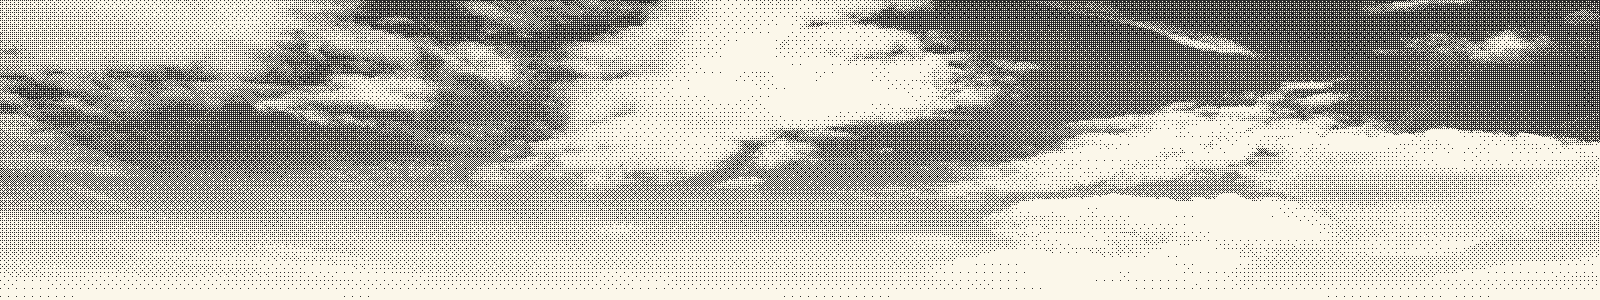
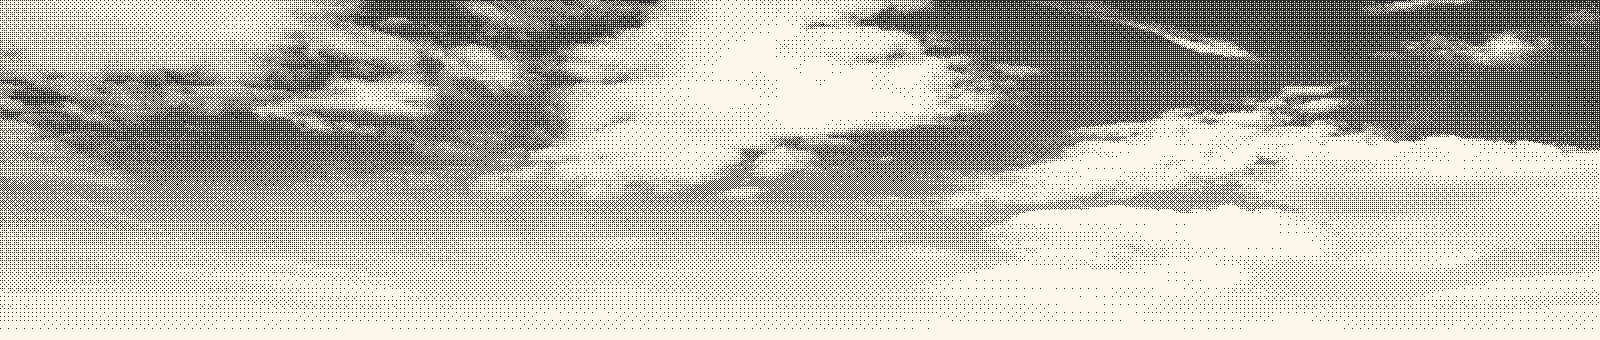
Draft: more breathing room; clouds and grass overlap the content
- Title moves up into the clouds, which now fade out behind the title
  and subtitle; grass rises behind the lower edge of the project cards.
- Larger gaps between title, Projects and the contact/footer pair.
- Title, subtitle and Projects heading get the cream halo so they stay
  legible over the dots.

Not for merge until approved.

Claude-Session: https://claude.ai/code/session_01ADSfjnotvJBVm7aaFjY4uq

diff --git a/assets/css/style.css b/assets/css/style.css
@@ -180,8 +180,8 @@ a {
   flex-direction: column;
   align-items: center;
   text-align: center;
-  --hero-top: calc(var(--u) * 440);
-  --title-reach: calc(var(--u) * 105); /* how far the cloud dither reaches into the title */
+  --hero-top: calc(var(--u) * 290);
+  --title-reach: calc(var(--u) * 330); /* clouds fade out behind the title and subtitle */
   padding: var(--hero-top) 24px 0;
 }
 
@@ -204,7 +204,7 @@ a {
 .dither--top {
   top: 0;
   height: calc(var(--hero-top) + var(--title-reach));
-  background: url("../img/dither-top.png") center bottom / 3200px 600px no-repeat;
+  background: url("../img/dither-top.png") center bottom / 3200px 680px no-repeat;
 }
 
 /* Bottom: grass builds up from cream to a dense field at the bottom edge, where
@@ -213,8 +213,8 @@ a {
 .dither--bottom {
   z-index: 0;
   bottom: 0;
-  height: 360px;
-  background: url("../img/dither-bottom.png") center bottom / 3200px 360px no-repeat;
+  height: 520px; /* grass rises up behind the lower edge of the cards */
+  background: url("../img/dither-bottom.png") center bottom / 3200px 520px no-repeat;
 }
 
 .title,
@@ -234,7 +234,7 @@ a {
   line-height: 1;
   letter-spacing: 0.008em;
   color: var(--ink-dark);
-  text-shadow: none;
+  text-shadow: var(--text-shadow); /* cream halo over the cloud dots */
 }
 
 /* Trademark mark hangs off the right edge so the word itself stays centred,
@@ -257,7 +257,7 @@ a {
   font-size: clamp(17px, calc(var(--u) * 51), 120px);
   line-height: 1.2;
   color: var(--ink-dark);
-  text-shadow: none;
+  text-shadow: var(--text-shadow);
   display: inline-flex;
   align-items: center;
   gap: 0.28em;
@@ -280,7 +280,7 @@ a {
 
 .projects {
   position: relative;
-  margin-top: calc(var(--u) * 110);
+  margin-top: calc(var(--u) * 195);
   width: 100%;
   display: flex;
   flex-direction: column;
@@ -293,7 +293,7 @@ a {
   font-size: clamp(22px, calc(var(--u) * 64), 150px);
   line-height: 1.1;
   color: var(--ink-dark);
-  text-shadow: none; /* sits on the cream glow, no shadow needed */
+  text-shadow: var(--text-shadow);
 }
 
 .tiles {
@@ -351,7 +351,7 @@ a {
 /* ---------- Contact --------------------------------------------------------- */
 
 .contact {
-  margin-top: calc(var(--u) * 120);
+  margin-top: calc(var(--u) * 180);
   display: inline-block;
   padding: calc(var(--u) * 8) calc(var(--u) * 60);
   font-weight: 500;
@@ -615,7 +615,7 @@ a {
      contact pair, which stays right above the wordmark. On short screens the gap
      collapses to its minimum and the page simply scrolls. */
   .page {
-    --hero-top: calc(env(safe-area-inset-top, 0px) + clamp(110px, 24svh, 240px));
+    --hero-top: calc(env(safe-area-inset-top, 0px) + clamp(70px, 14svh, 150px));
     padding: var(--hero-top) max(20px, env(safe-area-inset-right, 0px)) 0 max(20px, env(safe-area-inset-left, 0px));
   }
 
@@ -684,17 +684,17 @@ a {
   }
 
   .page {
-    --title-reach: 28px;
+    --title-reach: 150px;
   }
 
   /* phones: finer dither (1 CSS px dots, still 2-3 device px) at half the height */
   .dither--top {
-    background-size: 1600px 300px;
+    background-size: 1600px 340px;
   }
 
   .dither--bottom {
-    height: 180px;
-    background-size: 1600px 180px;
+    height: 260px;
+    background-size: 1600px 260px;
   }
 
   /* Games page */
